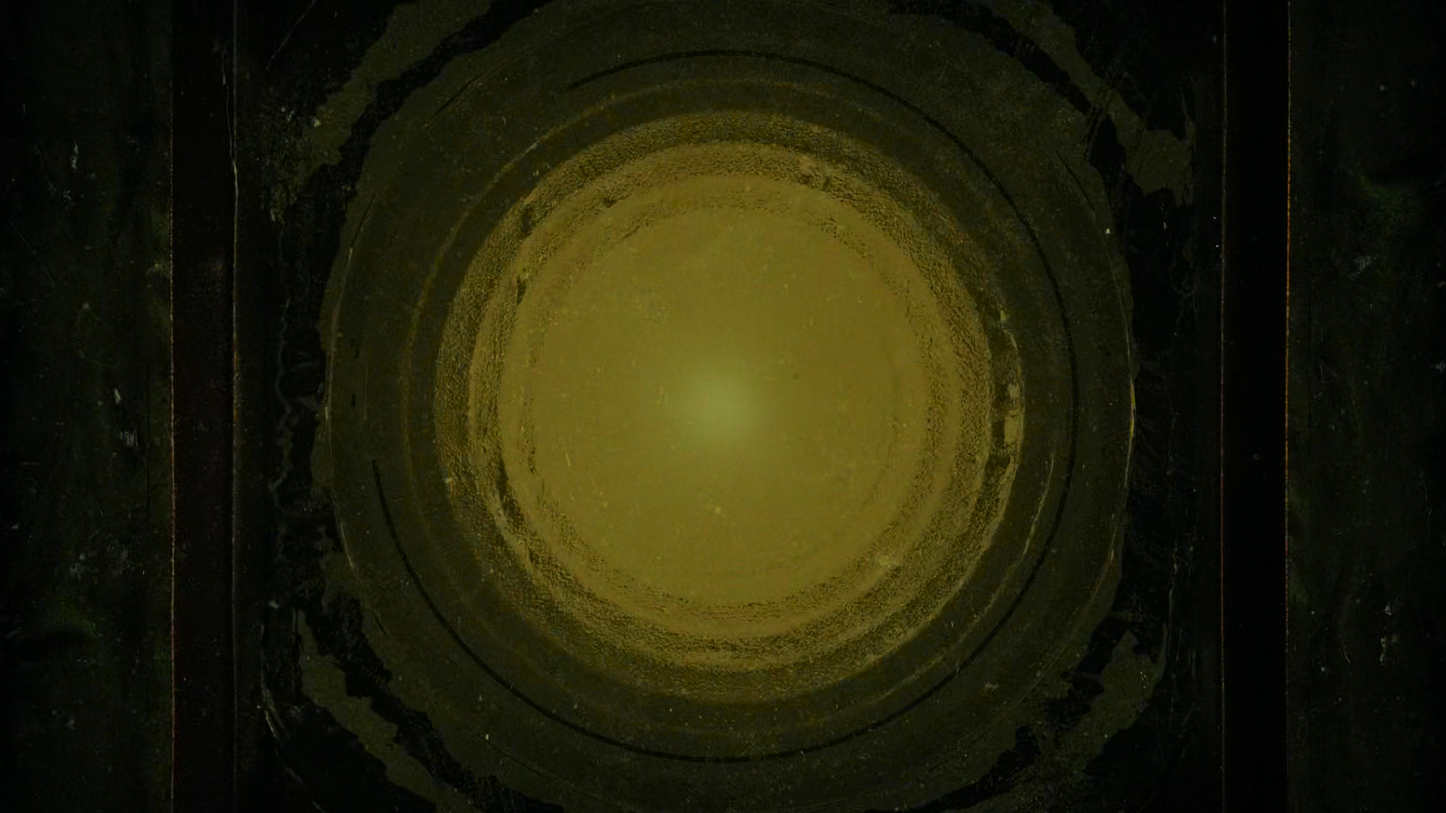
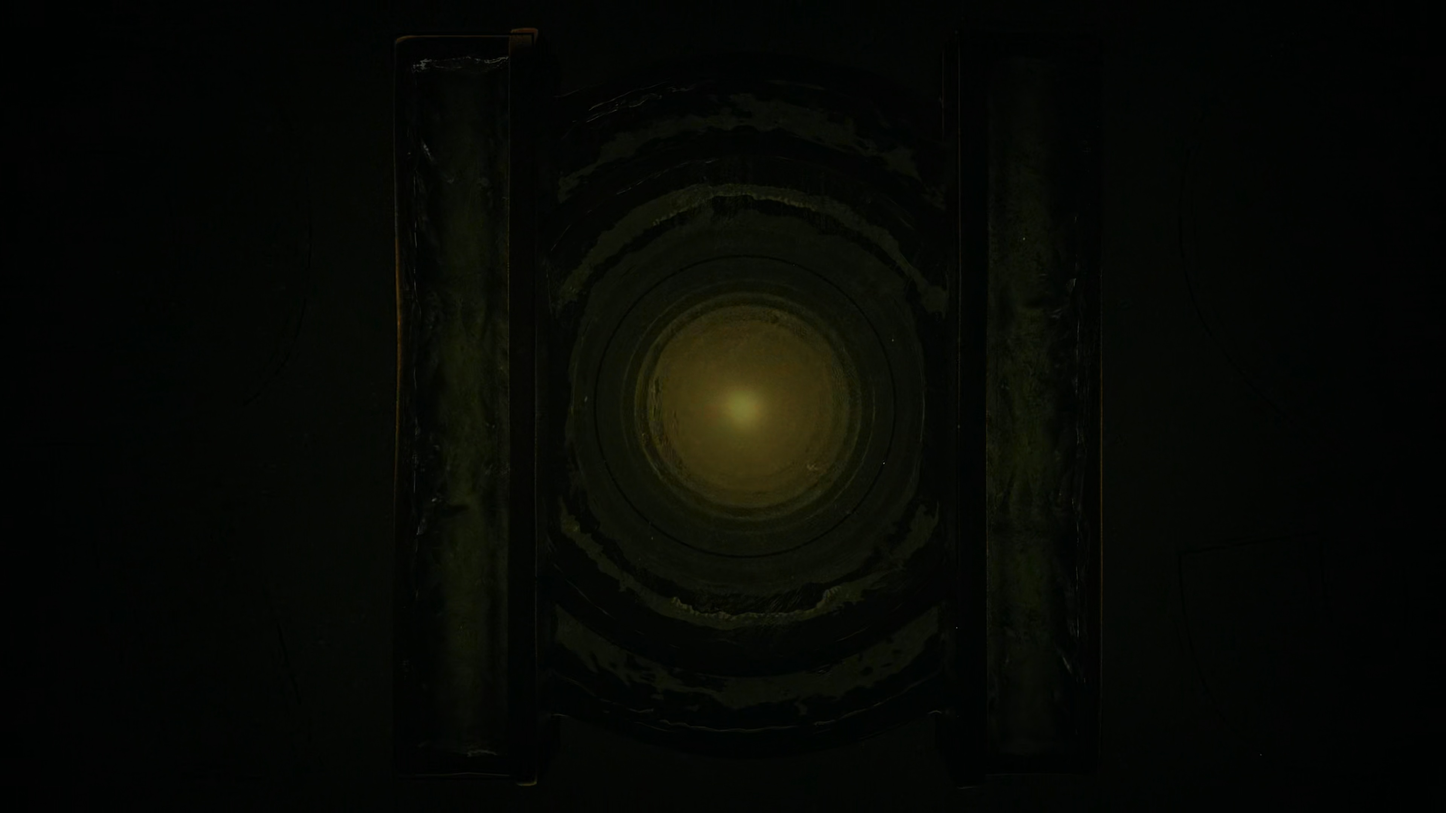
Swap title lens for the deeper frame
Claude-Session: https://claude.ai/code/session_01UUnbdtfTT148dE53T2jQZ2

diff --git a/backgrounds/SOURCES.md b/backgrounds/SOURCES.md
@@ -5,7 +5,7 @@ All wallpapers are 3840x2160. The stills are from the HBO series *Lanterns* (sea
 | File | Source |
 |---|---|
 | `01-ring-face.jpg` | Drawn for this theme: Hal Jordan's ring face as a flat vector, in the theme palette. |
-| `02-title-lens.jpg` | S01E03 "OutKast", title sequence, 04:54. |
+| `02-title-lens.jpg` | S01E03 "OutKast", title sequence, 04:55. |
 | `03-title-lanterns.jpg` | S01E03 "OutKast", title card, 05:00. |
 | `04-title-omarchy.jpg` | Edit of `03`: the title replaced with the Omarchy wordmark, filled with the title card's own starfield. |
 | `05-hal-ring.jpg` | S01E05 "Lights Out", 51:00. |
